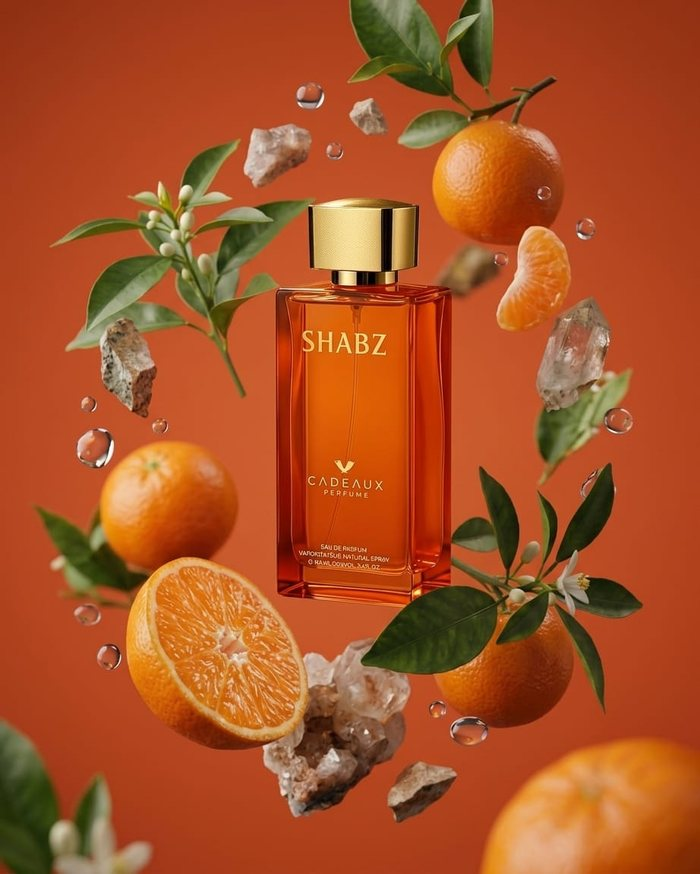
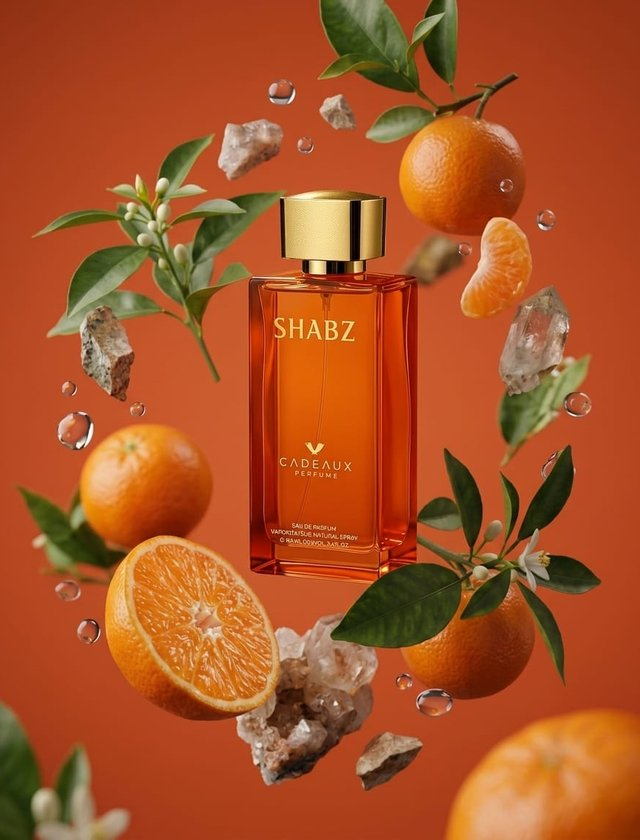
Re-crop all 4 perfume photos to the card's exact aspect ratio so every one fills the box perfectly, no letterboxing

diff --git a/css/style.css b/css/style.css
@@ -716,7 +716,7 @@ html[dir="rtl"] .watch-card h3 { font-family: var(--font-arabic); }
 }
 .watch-card.cat-perfume:hover .perfume-photo {
   background-color: var(--ink-card);
-  background-size: contain;
+  background-size: cover;
   background-position: center;
 }
 .watch-card.cat-perfume:hover .body {
